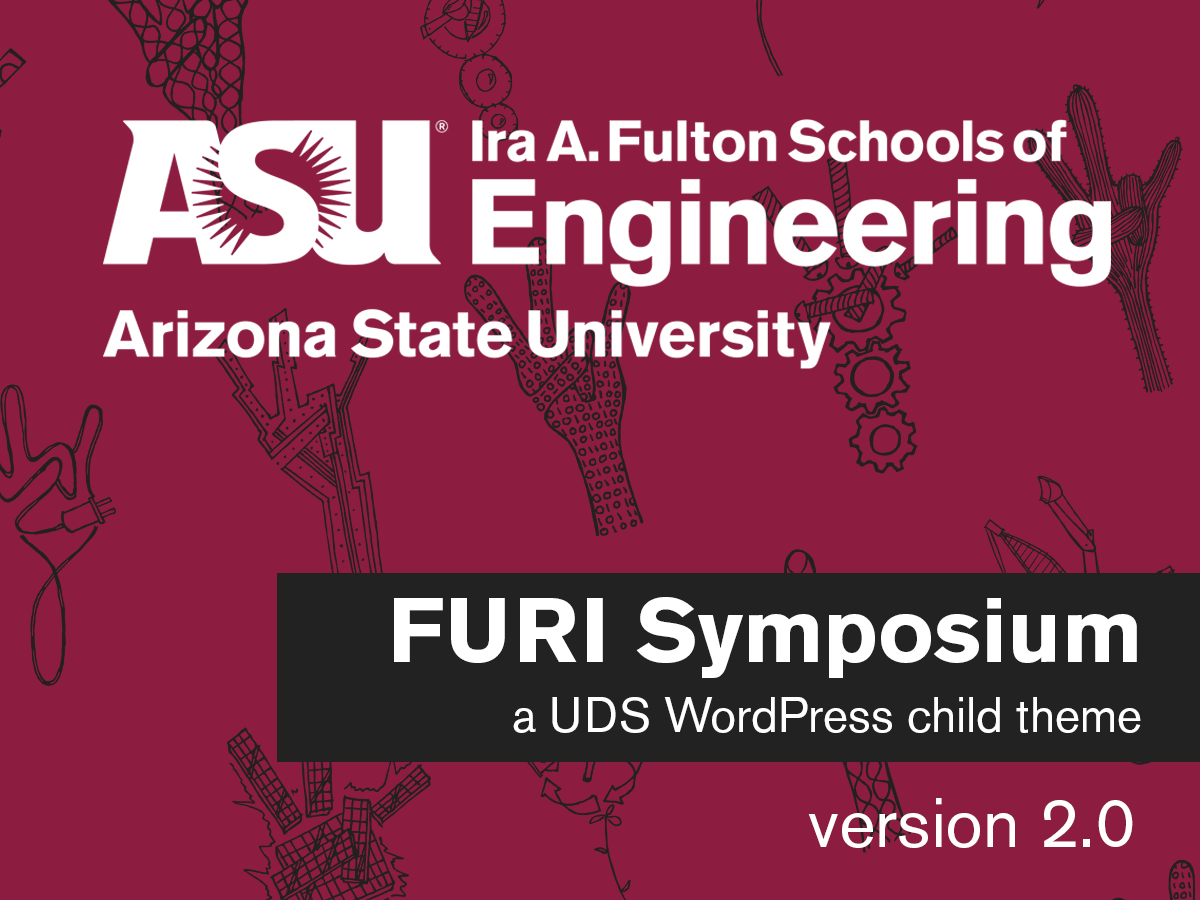
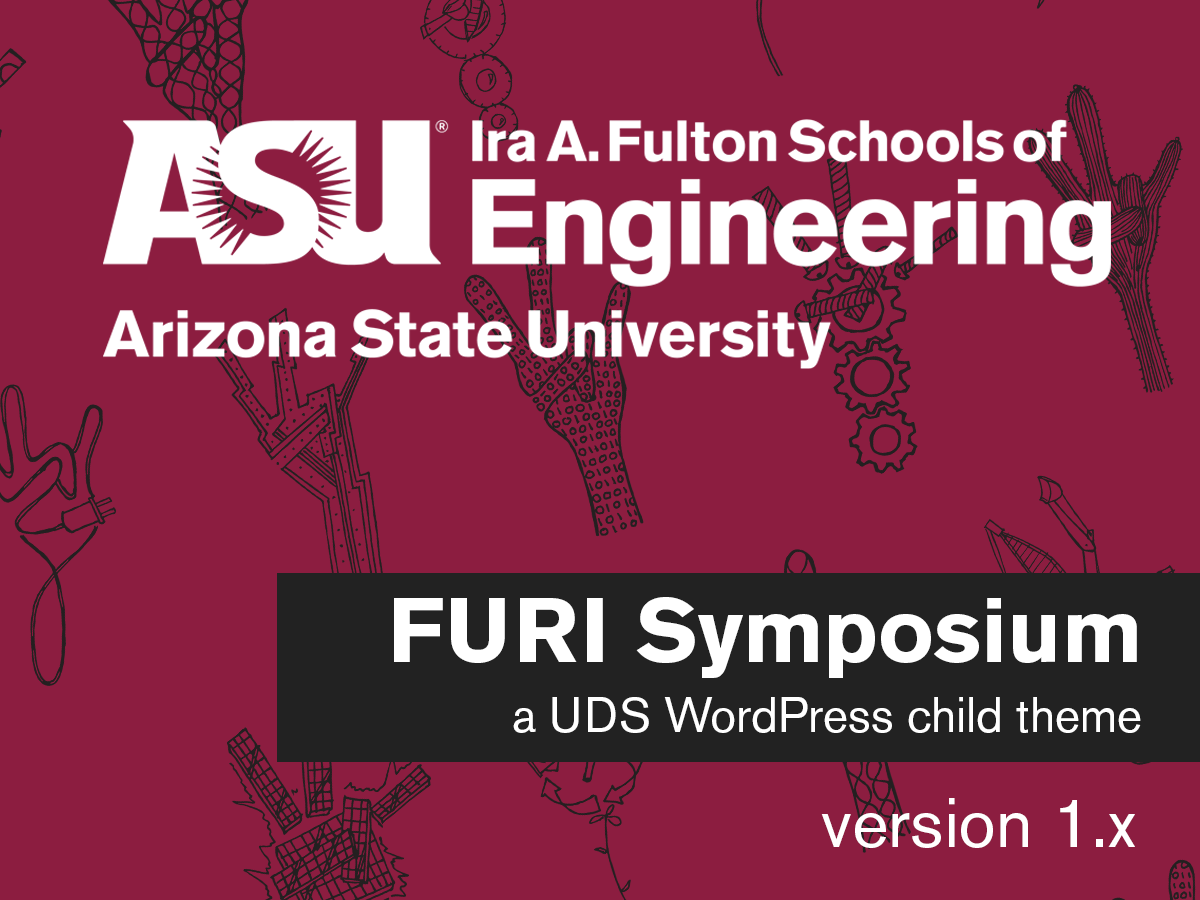
Updated style.css with correct version number.

Changed region(s): [[0.6783, 0.8711, 0.9558, 0.9644]]

diff --git a/style.css b/style.css
@@ -4,7 +4,7 @@ Theme URI: https://github.com/asuengineering/asu-twentytwenty-child
 Author: ASU Engineering
 Author URI: https://github.com/asuengineering
 Description: A WordPress theme for the Fulton Undergraduate Research Initiative web site. A child theme of UDS WordPress. 
-Version: 0.1.0
+Version: 1.0.0
 
 Template: UDS-WordPress-Theme
 
